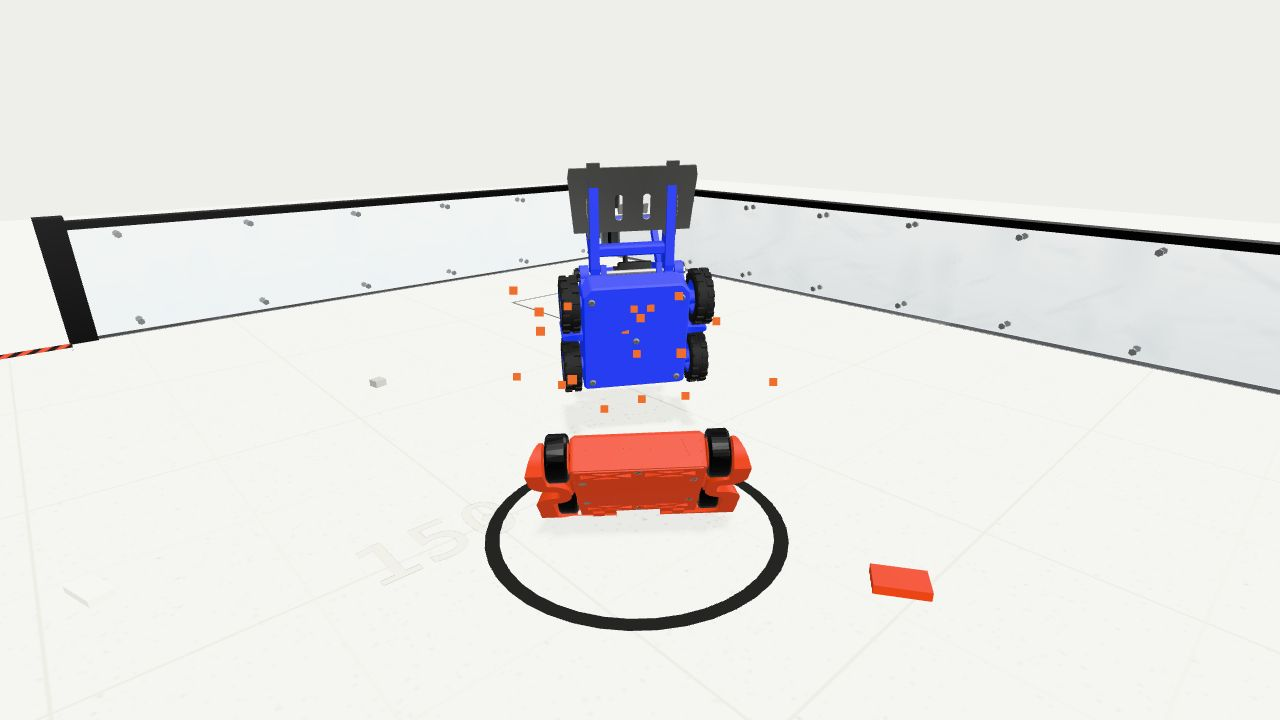
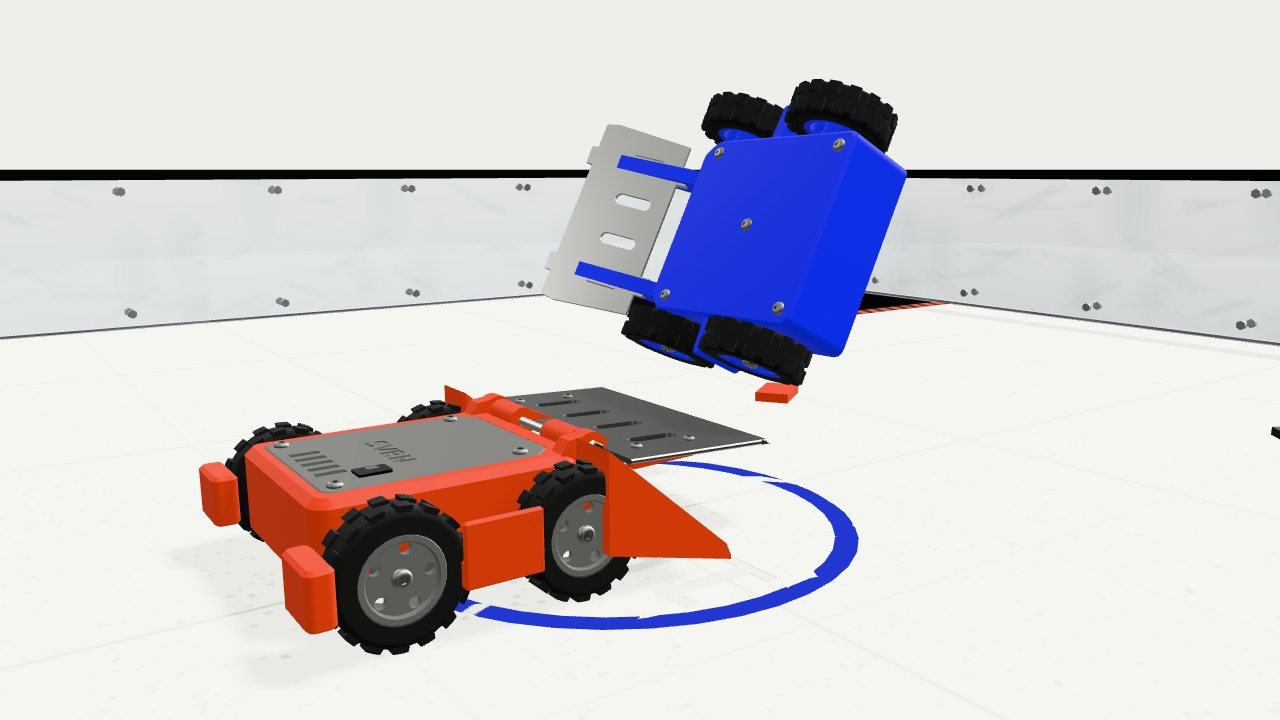
SVRN: full robot look (dark lid and hubs, steel plate), re-rendered kit images + arena shot
- wheel hubs use the dark accent material; body alone takes the print colour
- tools/render-kit/: studio renderer for catalogue images (5 colours, 1200×900 JPEG) – img/svrn_*.jpg re-rendered
- assets/media/arena.jpg re-shot with the new model (SVRN flips Klepeto)
- kit page credit: render after Project SVRN (Shoverobotics, CC BY 4.0), modules by printedrobotics.cz

Claude-Session: https://claude.ai/code/session_01BZLxn37hPV3nyR5Dfttybs

diff --git a/tools/render-kit/render.html b/tools/render-kit/render.html
@@ -1,0 +1,74 @@
+<!doctype html>
+<html lang="cs"><head><meta charset="utf-8"><title>kit render</title>
+<style>html,body{margin:0;background:#EEEEEA}canvas{display:block}</style>
+<script type="importmap">{"imports":{"three":"../../sim/arena/node_modules/three/build/three.module.js","three/addons/":"../../sim/arena/node_modules/three/examples/jsm/"}}</script>
+</head><body>
+<script type="module">
+// Studio render of a kit model for the catalogue (driven by tools/render-kit/render.mjs).
+// window.renderKit({ model, show, color, w, h, az, el, dist }) -> resolves when the frame is drawn.
+import * as THREE from 'three';
+import { GLTFLoader } from 'three/addons/loaders/GLTFLoader.js';
+import { RoomEnvironment } from 'three/addons/environments/RoomEnvironment.js';
+import { MeshoptDecoder } from 'three/addons/libs/meshopt_decoder.module.js';
+
+const renderer = new THREE.WebGLRenderer({ antialias: true, preserveDrawingBuffer: true });
+renderer.outputColorSpace = THREE.SRGBColorSpace;
+renderer.toneMapping = THREE.NeutralToneMapping;
+renderer.shadowMap.enabled = true; renderer.shadowMap.type = THREE.VSMShadowMap;
+document.body.appendChild(renderer.domElement);
+const scene = new THREE.Scene();
+scene.background = new THREE.Color('#EEEEEA');
+const pmrem = new THREE.PMREMGenerator(renderer);
+scene.environment = pmrem.fromScene(new RoomEnvironment(), 0.04).texture;
+scene.environmentIntensity = 0.75;
+const key = new THREE.DirectionalLight(0xffffff, 1.6);
+key.castShadow = true; key.shadow.mapSize.set(2048, 2048); key.shadow.radius = 14; key.shadow.blurSamples = 24; key.shadow.bias = -0.0004;
+scene.add(key, key.target, new THREE.HemisphereLight(0xffffff, 0xdcdcd6, 0.55));
+const ground = new THREE.Mesh(new THREE.PlaneGeometry(40, 40), new THREE.ShadowMaterial({ opacity: 0.16 }));
+ground.rotation.x = -Math.PI / 2; ground.receiveShadow = true; scene.add(ground);
+const camera = new THREE.PerspectiveCamera(24, 4 / 3, 0.05, 100);
+const loader = new GLTFLoader(); loader.setMeshoptDecoder(MeshoptDecoder);
+let root = null, url = null;
+
+window.renderKit = async o => {
+  if (url !== o.model) {
+    if (root) scene.remove(root);
+    root = (await loader.loadAsync(o.model)).scene; url = o.model;
+    scene.add(root);
+  }
+  root.traverse(n => {
+    if (/^opt_/.test(n.name || '')) n.visible = (o.show || []).includes(n.name);
+    if (n.isMesh) {
+      n.castShadow = n.receiveShadow = true;
+      for (const m of [].concat(n.material)) {
+        if (m.name === 'print') { m.color.set(o.color); m.roughness = 0.6; }
+        else if (m.metalness > 0.5 && !m.userData.toned) { m.color.multiplyScalar(0.5); m.roughness = 0.55; m.userData.toned = true; }   // steel, not white plastic
+      }
+    }
+  });
+  // frame the visible model: floor at y = 0, camera on an azimuth / elevation around its centre
+  root.position.set(0, 0, 0); root.updateMatrixWorld(true);
+  const box = new THREE.Box3();
+  root.traverseVisible(n => { if (n.isMesh) box.expandByObject(n); });
+  root.position.y = -box.min.y; root.updateMatrixWorld(true);
+  box.translate(new THREE.Vector3(0, -box.min.y, 0));
+  const c = box.getCenter(new THREE.Vector3()), r = box.getSize(new THREE.Vector3()).length() / 2;
+  c.y = (box.max.y - box.min.y) * 0.35;
+  const az = THREE.MathUtils.degToRad(o.az ?? 35), el = THREE.MathUtils.degToRad(o.el ?? 26), d = r * (o.dist ?? 4.2);
+  camera.position.set(c.x + d * Math.cos(el) * Math.sin(az), c.y + d * Math.sin(el), c.z + d * Math.cos(el) * Math.cos(az));
+  camera.lookAt(c);
+  key.position.set(c.x - r * 3, c.y + r * 7, c.z + r * 4); key.target.position.copy(c);
+  const s = r * 2.2; Object.assign(key.shadow.camera, { left: -s, right: s, top: s, bottom: -s, near: 0.1, far: r * 20 }); key.shadow.camera.updateProjectionMatrix();
+  renderer.setPixelRatio(1); renderer.setSize(o.w, o.h, false);
+  camera.aspect = o.w / o.h; camera.updateProjectionMatrix();
+  renderer.render(scene, camera);
+  if (!o.jpeg) return true;
+  // supersampled frame -> downscaled JPEG (the catalogue size)
+  const out = document.createElement('canvas'); out.width = o.jpeg.w; out.height = o.jpeg.h;
+  const g = out.getContext('2d'); g.imageSmoothingQuality = 'high';
+  g.drawImage(renderer.domElement, 0, 0, o.jpeg.w, o.jpeg.h);
+  return out.toDataURL('image/jpeg', o.jpeg.q || 0.86);
+};
+window.ready = true;
+</script>
+</body></html>

diff --git a/assets/data.js b/assets/data.js
@@ -167,7 +167,7 @@ window.PR_ROBOTS = [
     bom: [['Modul M5Stack Core (Basic/Gray/Go/Fire)', '1×'], ['Mikroservo SG90 (nebo sériové RS30X / SCS0009)', '2×'], ['Deska Stack-chan pro serva', '1×'], ['Akumulátor Li-Pol 3,7 V s konektorem PH 2pin', '1×'], ['Šrouby M2 × 4 mm', '4×'], ['Šrouby M2 × 8 mm', '2×'], ['Šrouby M3 × 15 mm (volitelně)', '2×']],
     specs: [['Stupně volnosti', '2 (otáčení + náklon hlavy)'], ['Pohon', '2× SG90, RS30X nebo SCS0009'], ['Řízení', 'M5Stack Core / Core2 / CoreS3'], ['Tištěné díly', 'skořepina, nožky, držák serv, zadní kryt baterie'], ['Napájení', 'akumulátor 3,7 V nebo externích 5 V']],
     related: ['otto', 'so101', 'hand'] },
-  { id: 'svrn', glb: true, glbShow: ['opt_modul_flipper'], render: true, sim: 'arena', credit: 'Vizualizace z modelu Shoverobotics (CC BY 4.0)', name: 'Project SVRN', type: 'Bojový robot 150 g', cat: 'combat', level: 'Začátečník', hw: 'CC BY 4.0', sw: '—',
+  { id: 'svrn', glb: true, glbShow: ['opt_modul_flipper'], render: true, sim: 'arena', credit: 'Vizualizace podle Project SVRN – Shoverobotics (CC BY 4.0), moduly printedrobotics.cz', name: 'Project SVRN', type: 'Bojový robot 150 g', cat: 'combat', level: 'Začátečník', hw: 'CC BY 4.0', sw: '—',
     author: 'Shoverobotics (Jordan Gell)', alt: 'Malý bojový robot Project SVRN s pohonem 4×4 a klínem',
     short: 'Modulární bojový robot do 150 g: tlačný robot (pusher) s pohonem 4×4, k tomu flipper nebo chapadlo.',
     lead: 'Modulární platforma pro soutěže antweight do 150 g, navržená pro nováčky. Základ je tlačný robot s pohonem všech čtyř kol, který lze osadit klínem, flipperem nebo chapadlem. Řídí ho Malenki Nano – přijímač a regulátory na jedné destičce – a ovládá se běžným vysílačem FlySky. Bez rotující zbraně, takže se hodí na první zápasy v České lize bojových robotů.',

diff --git a/assets/data.en.js b/assets/data.en.js
@@ -115,7 +115,7 @@ window.PR_EN = {
       card: [['Axes', '2 (pan + tilt)'], ['Controller', 'M5Stack (ESP32)']],
       bom: [['M5Stack Core module (Basic/Gray/Go/Fire)', '1×'], ['SG90 micro servo (or serial RS30X / SCS0009)', '2×'], ['Stack-chan servo board', '1×'], ['3.7 V Li-Po battery with PH 2-pin connector', '1×'], ['M2 × 4 mm screws', '4×'], ['M2 × 8 mm screws', '2×'], ['M3 × 15 mm screws (optional)', '2×']],
       specs: [['Degrees of freedom', '2 (head pan + tilt)'], ['Actuators', '2× SG90, RS30X or SCS0009'], ['Controller', 'M5Stack Core / Core2 / CoreS3'], ['Printed parts', 'shell, feet, servo bracket, battery back cover'], ['Power', '3.7 V battery or external 5 V']] },
-    svrn: { credit: 'Render from the Shoverobotics model (CC BY 4.0)', type: '150 g combat robot', alt: 'Project SVRN small combat robot with 4×4 drive and a wedge',
+    svrn: { credit: 'Render after Project SVRN by Shoverobotics (CC BY 4.0), modules by printedrobotics.cz', type: '150 g combat robot', alt: 'Project SVRN small combat robot with 4×4 drive and a wedge',
       short: 'Modular combat robot up to 150 g: a 4×4 pusher, plus a flipper or grabber module.',
       lead: 'Modular platform for 150 g antweight competitions, designed for newcomers. The base is a four-wheel-drive pusher that takes a wedge, flipper or grabber module. It runs on a Malenki Nano – receiver and speed controllers on one board – and is driven with a standard FlySky transmitter. No spinning weapon, so it suits first fights in the Czech combat robot league.',
       software: 'no programming (RC transmitter)',

diff --git a/sada/svrn/index.html b/sada/svrn/index.html
@@ -65,7 +65,7 @@
 <button type="button" class="btn btn-o" id="v3d-play">Sestavení <span aria-hidden="true">▶</span></button>
 <p class="mono" id="v3d-hint" style="margin:0;grid-column:1/-1">Táhněte pro otočení · dva prsty nebo kolečko pro přiblížení</p>
 </div>
-<figcaption class="mono" style="display:flex;justify-content:space-between;gap:16px;flex-wrap:wrap"><span id="p-cap">Obr. 1 — Project SVRN</span><span id="p-credit">Vizualizace z modelu Shoverobotics (CC BY 4.0)</span></figcaption>
+<figcaption class="mono" style="display:flex;justify-content:space-between;gap:16px;flex-wrap:wrap"><span id="p-cap">Obr. 1 — Project SVRN</span><span id="p-credit">Vizualizace podle Project SVRN – Shoverobotics (CC BY 4.0), moduly printedrobotics.cz</span></figcaption>
 </figure>
 </div>
 

diff --git a/en/kit/svrn/index.html b/en/kit/svrn/index.html
@@ -65,7 +65,7 @@
 <button type="button" class="btn btn-o" id="v3d-play">Assembly <span aria-hidden="true">▶</span></button>
 <p class="mono" id="v3d-hint" style="margin:0;grid-column:1/-1">Drag to rotate · pinch or scroll to zoom</p>
 </div>
-<figcaption class="mono" style="display:flex;justify-content:space-between;gap:16px;flex-wrap:wrap"><span id="p-cap">Fig. 1 — Project SVRN</span><span id="p-credit">Render from the Shoverobotics model (CC BY 4.0)</span></figcaption>
+<figcaption class="mono" style="display:flex;justify-content:space-between;gap:16px;flex-wrap:wrap"><span id="p-cap">Fig. 1 — Project SVRN</span><span id="p-credit">Render after Project SVRN by Shoverobotics (CC BY 4.0), modules by printedrobotics.cz</span></figcaption>
 </figure>
 </div>
 

diff --git a/tools/robots-cad/svrn.py b/tools/robots-cad/svrn.py
@@ -186,8 +186,9 @@ def build(out):
     for i, (x, y) in enumerate(WHEELS):
         n = root.child(f'wheel_{i + 1}', (x, y, FLOOR + WR))
         n.tol = (0.16, 0.5)
+        # dark hubs (like the lid): only the printed body takes the print colour
         for m, ss in wheel(WR, WW, 1 if x > 0 else -1, lugs=16).items():
-            n.add(m, *[Pos(x, y, FLOOR + WR) * s for s in ss])
+            n.add('accent' if m == 'print' else m, *[Pos(x, y, FLOOR + WR) * s for s in ss])
     hinge = Pos(*HINGE)
     fl = root.child('flipper', HINGE)
     fl.tol = (0.1, 0.45)

diff --git a/sim/arena/CHANGELOG.md b/sim/arena/CHANGELOG.md
@@ -10,6 +10,9 @@
   Flipper / Klín (−9 g, bez serva, nestřílí) / Chapadlo (+3 g, chytí a odveze jako Klepeto). Fyzika modulu se mění s ním.
 - Flipper je vidět i v klidu a při výstřelu se zvedá (dříve se schematická deska ukazovala jen při výstřelu).
 - 3D náhled na stránce sady ukazuje jen modul flipper (ostatní `opt_*` uzly skrývá).
+- Celý robot: víko (tmavé), tmavé náboje kol, ocelová deska a spojovací materiál zvlášť od tištěného těla (barva tisku jen na tělo).
+- **Nové rendery** `img/svrn_{white,grey,black,orange,blue}.jpg` (hero sady CZ/EN, karta v katalogu, home) z nového modelu
+  přes `tools/render-kit/` (Playwright + three.js, 1200×900) a nový snímek `assets/media/arena.jpg` (SVRN vyhazuje Klepeto).
 
 ## Opravy po QA a první zápas (branch `arena-fixes`)
 - **Přes stěnu už nelétá:** nad 12cm stěnou je neviditelný polykarbonátový „strop“ do 36 cm (`CATCH_H`, `maps/kit.js`),
